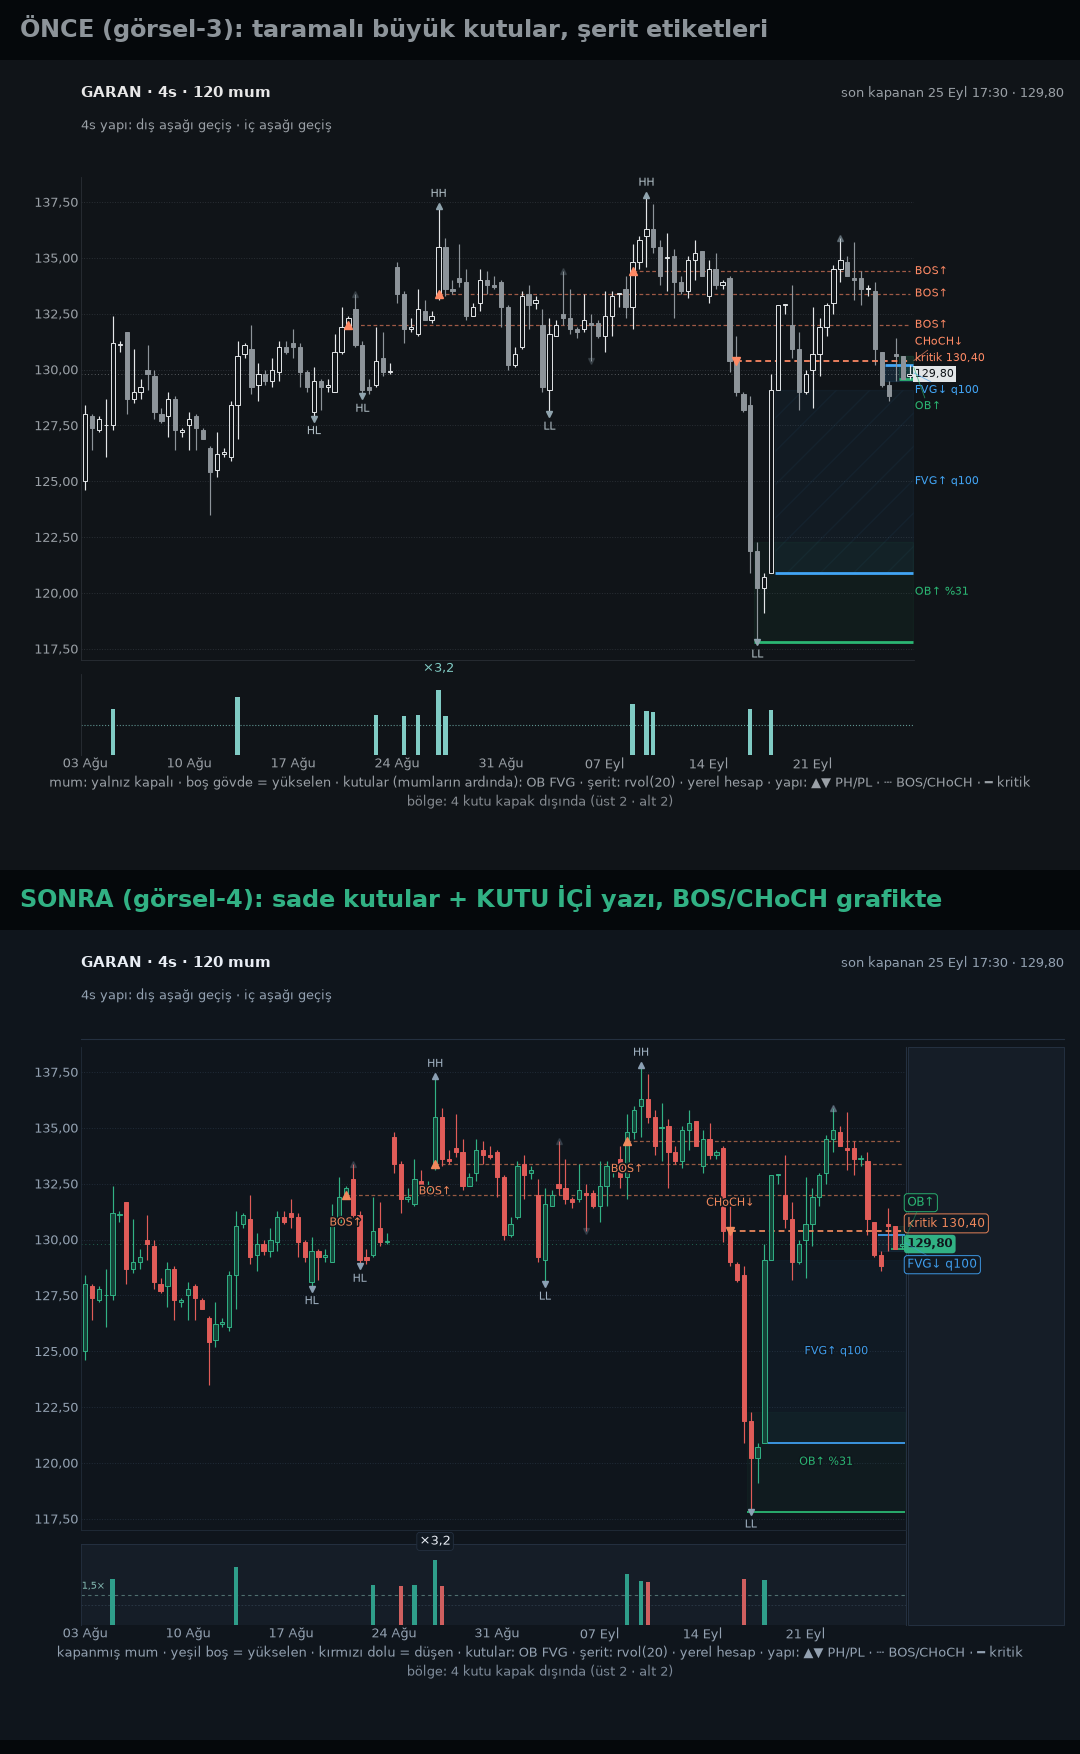
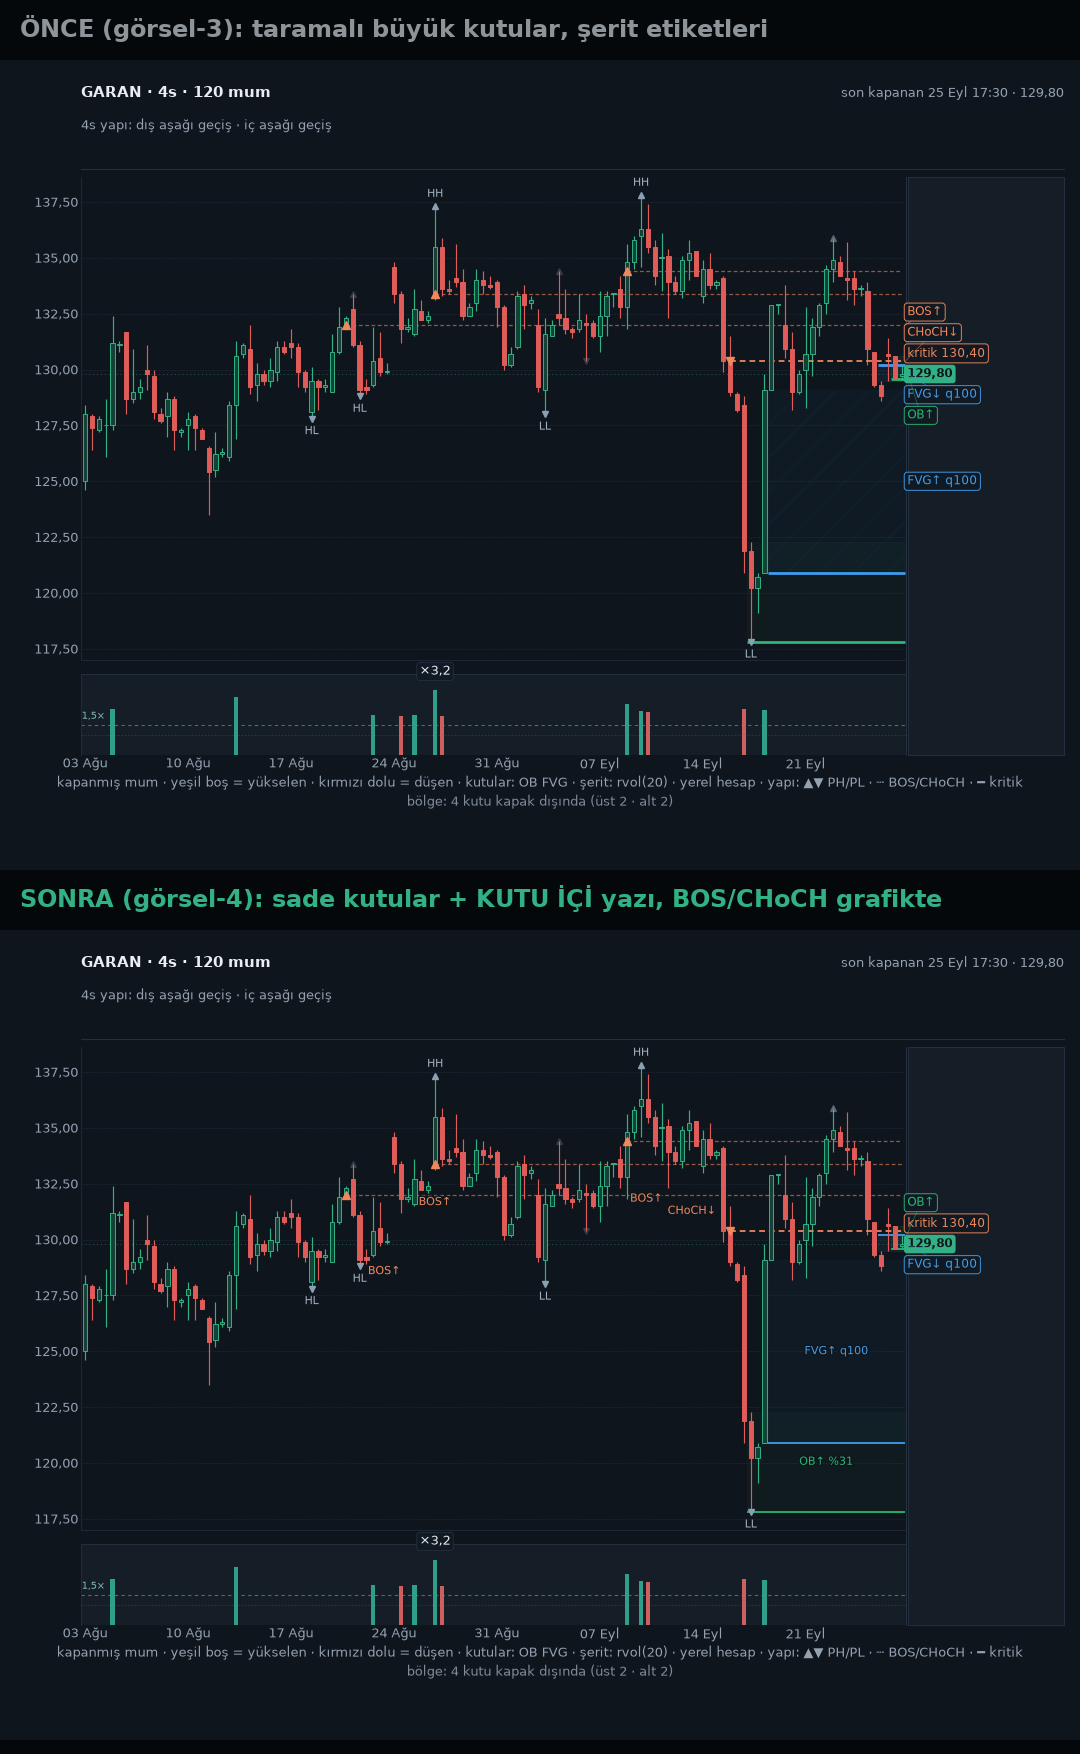
GÖRSEL-4 ek: katman yazıları için 2B çakışma ölçümü (19 kare taraması)
Ölçüm: ilk hâlde `katman_cakisan`da 4 BOS/CHoCH etiketi + birkaç kutu etiketi mum
gövdesiyle çakışıyordu (kullanıcı isteği: "anlaşılır/okunabilir grafik").

- `_olay_yazi_koy`: olay etiketi aday konumları (kırılımın ters tarafı önce, sonra
  yana kaydırma) GERÇEK `get_window_extent` ile ölçülür; çakışmasız ilk aday
  seçilir, hiçbiri boş değilse EN AZ çakışan korunur → yazı asla kaybolmaz.
- `_kutu_yazisi_koy`: kutu içi yazı 9 aday arasından (sol/orta/sağ × 3 dikey)
  kutunun DIŞINA çıkmadan en az çakışan noktaya oturur; hiçbiri sığmazsa etiket
  yine sağ şeride yedeklenir (sessiz kayıp yok).
- Mum piksel kutuları `_kare_ciz`de BİR KEZ hesaplanıp iki katmana da verilir.
- Ölçüm (20 kare: 10 hisse 4s + 1s/1g karışık): BOS/CHoCH çakışması **4 → 0**,
  `mum_cakisan` tüm karelerde 0 (şerit/başlık kapısı katı), kare süresi medyan
  343 ms / p95 555 ms (yerleşim ölçümü ~0,5 ms).
- Kanıt PNG'si `git archive da4c524` ağacıyla üretilen GÖRSEL-3 karesiyle
  yenilendi; §32 sözleşmesi güncellendi (2B yerleşim + açık kalanlar).

Test: test_grafik_gorsel4.py 13 test (yeni: olay etiketi ölçümü sıfır, kutu içi
yazı dağılımı korunur). Tam suite 1102 passed / 44 skipped.

diff --git a/grafik.py b/grafik.py
@@ -1176,10 +1176,17 @@ def _kare_ciz(goruntu: Mapping[str, Any], tf: str, olcu: Mapping[str, Any],
         cap = float(SABITLER["mum_genislik_orani"])
 
         sag_adaylar: list[dict[str, Any]] = []
+        # Mum kutuları (piksel) bir kez: kutu içi yazı ve olay etiketi yerleşimi
+        # aynı ölçümü kullanır (GÖRSEL-4).
+        try:
+            mum_kutulari = _mum_kutulari_px(ax, acilis, yuksek, dusuk, kapanis, cap)
+        except Exception:
+            mum_kutulari = None
         # --- bölge kutuları mumların ARDINDA (bilgi zemini; §0.4.1) ---
         if not yalnizca_mumlar and (zone.get("cizilen") or []):
             try:
-                zone_ozet = _zone_ciz(ax, zone, n, aralik, sag_adaylar) or {}
+                zone_ozet = _zone_ciz(ax, zone, n, aralik, sag_adaylar,
+                                      kutular=mum_kutulari) or {}
                 meta["zone"]["etiket_ic"] = int(zone_ozet.get("ic") or 0)
                 meta["zone"]["etiket_serit"] = int(zone_ozet.get("serit") or 0)
             except Exception as hata:
@@ -1191,7 +1198,8 @@ def _kare_ciz(goruntu: Mapping[str, Any], tf: str, olcu: Mapping[str, Any],
                      "capa": 0}
         if not yalnizca_mumlar and (goruntu.get("olay") or {}):
             try:
-                olay_ozet.update(_olay_ciz(ax, goruntu, n, sag_adaylar) or {})
+                olay_ozet.update(_olay_ciz(ax, goruntu, n, sag_adaylar,
+                                           kutular=mum_kutulari) or {})
             except Exception as hata:
                 log.warning("grafik: yapı katmanı çizilemedi (%s)", hata)
                 eksik.append("ms")
@@ -1447,8 +1455,72 @@ def _kutu_yazisi_sigar(ax, b: Mapping[str, Any], x0: int, x1: int, n: int,
     return kutu_yuk_px >= punto_px + 5.0
 
 
+def _kutu_yazisi_koy(ax, b: Mapping[str, Any], x0: int, x1: int, n: int,
+                     aralik: Sequence[float], metin: str, renk: str,
+                     kutular: Any = None) -> bool:
+    """Kutu içi yazıyı kutuya koyar; mumla çakışmayan noktayı ölçerek seçer.
+
+    Adaylar kutunun İÇİNDE kalır (yatay: sol/orta/sağ; dikey: orta ve kenara
+    yakın). Gerçek genişlik `get_window_extent` ile okunur; kutuya sığmayan aday
+    elenir. Hiçbiri çakışmasız değilse EN AZ çakışan seçilir, hiçbiri sığmıyorsa
+    `False` döner → etiket sağ şeride yedeklenir (sessiz kayıp yok).
+    """
+    from matplotlib import patheffects
+
+    def _yaz(xa: float, ya: float, ha: str) -> Any:
+        return ax.text(xa, ya, metin, ha=ha, va="center", gid="kutu-ici",
+                       fontsize=float(SABITLER["zone_yazi_pt"]),
+                       color=renk, zorder=5, clip_on=False,
+                       path_effects=[patheffects.withStroke(linewidth=2.0,
+                                                            foreground=PALET["zemin"])])
+
+    alt, ust = float(b["alt"]), float(b["ust"])
+    orta = (alt + ust) / 2.0
+    y_aday = [orta, alt + (ust - alt) * 0.32, ust - (ust - alt) * 0.32]
+    x_aday = [((x0 + x1) / 2.0, "center"), (x0 + 0.1, "left"), (x1 - 0.1, "right")]
+    try:
+        renderer = ax.figure.canvas.get_renderer()
+        kx0, ky0 = ax.transData.transform((float(x0) - 0.5, alt))
+        kx1, ky1 = ax.transData.transform((float(x1) + 0.5, ust))
+        kutu = (min(kx0, kx1), min(ky0, ky1), max(kx0, kx1), max(ky0, ky1))
+    except Exception:
+        renderer, kutu = None, None
+    en_iyi = None
+    for ya in y_aday:
+        for xa, ha in x_aday:
+            yazi = _yaz(xa, ya, ha)
+            if renderer is None:
+                return True                      # ölçüm yok: ilk aday (orta) yeter
+            try:
+                bb = yazi.get_window_extent(renderer)
+            except Exception:
+                return True
+            # kutuya sığmıyor mu? (kenarları aşan aday elenir)
+            if kutu is not None and (bb.x0 < kutu[0] - 1.0 or bb.x1 > kutu[2] + 1.0
+                                     or bb.y0 < kutu[1] - 1.0 or bb.y1 > kutu[3] + 1.0):
+                yazi.remove()
+                continue
+            alan = 0.0
+            if kutular is not None and len(kutular):
+                for cx0, cy0, cx1, cy1 in kutular:
+                    ow = max(0.0, min(bb.x1, cx1) - max(bb.x0, cx0))
+                    oh = max(0.0, min(bb.y1, cy1) - max(bb.y0, cy0))
+                    alan += ow * oh
+            if alan <= 0.0:
+                return True
+            if en_iyi is None or alan < en_iyi[0]:
+                en_iyi = (alan, xa, ya, ha)
+            yazi.remove()
+    if en_iyi is None:
+        return False                             # hiçbir aday kutuya sığmadı
+    _, xa, ya, ha = en_iyi
+    _yaz(xa, ya, ha)
+    return True
+
+
 def _zone_ciz(ax, zone: Mapping[str, Any], n: int, aralik: Sequence[float],
-              sag: Optional[list] = None) -> dict[str, int]:
+              sag: Optional[list] = None,
+              kutular: Any = None) -> dict[str, int]:
     """OB/FVG/engulfing kutuları + KUTU İÇİ yazı (§GÖRSEL-4). Dönüş: sayaç sözlüğü.
 
     Çizim sadeleşti: eğik tarama (hatch) KALKTI — büyük FVG kutularında
@@ -1460,6 +1532,10 @@ def _zone_ciz(ax, zone: Mapping[str, Any], n: int, aralik: Sequence[float],
 
     Kalın kenar boğada ALT, ayıda ÜST kenarda (§0.12r): boğa/ayı ayrımı renk
     değiştirmeden de okunur.
+
+    `kutular` verilirse (mum piksel kutuları) yazının YERİ kutu içinde ölçülerek
+    seçilir: mum gövdesiyle çakışmayan nokta tercih edilir, hepsi doluysa en az
+    çakışan (ölçüm: `katman_cakisan`). Verilmezse kutu ortası kullanılır.
     """
     from matplotlib.patches import Rectangle
 
@@ -1494,14 +1570,8 @@ def _zone_ciz(ax, zone: Mapping[str, Any], n: int, aralik: Sequence[float],
                 solid_capstyle="butt", zorder=2)
         # --- kutu İÇİ etiket (GÖRSEL-4): "hangi kutu, ne kadar dolu" kutuda yazılı ---
         metin = _zone_metni(b)
-        if _kutu_yazisi_sigar(ax, b, x0, x1, n, aralik, metin):
-            from matplotlib import patheffects
-            ax.text((x0 + x1) / 2.0, (alt + ust) / 2.0, metin,
-                    ha="center", va="center", gid="kutu-ici",
-                    fontsize=float(SABITLER["zone_yazi_pt"]), color=renk[b["tip"]],
-                    zorder=5, clip_on=False,
-                    path_effects=[patheffects.withStroke(linewidth=2.0,
-                                                         foreground=PALET["zemin"])])
+        if _kutu_yazisi_sigar(ax, b, x0, x1, n, aralik, metin) and _kutu_yazisi_koy(
+                ax, b, x0, x1, n, aralik, metin, renk[b["tip"]], kutular):
             ic += 1
         else:
             seride.append(b)
@@ -1879,8 +1949,125 @@ def _swing_ofseti(ax, x: float, yukari: bool, yerlesik: list, n: int,
     return ofs if yukari else -ofs
 
 
+def _mum_kutulari_px(ax, acilis, yuksek, dusuk, kapanis, cap: float):
+    """Mum gövde+fitil kutuları PİKSEL olarak (Nx4: x0,y0,x1,y1); numpy gerekir."""
+    import numpy as np
+
+    govde, fitil = [], []
+    for i, (a, k, y, d) in enumerate(zip(acilis, kapanis, yuksek, dusuk)):
+        if None in (a, k, y, d):
+            continue
+        govde.append((i - cap / 2.0, min(a, k), i + cap / 2.0, max(a, k)))
+        fitil.append((i - 0.25, d, i + 0.25, y))
+    def _kutu(liste):
+        if not liste:
+            return np.zeros((0, 4))
+        arr = np.array(liste, dtype=float)
+        p0 = ax.transData.transform(arr[:, 0:2])
+        p1 = ax.transData.transform(arr[:, 2:4])
+        return np.hstack([np.minimum(p0, p1), np.maximum(p0, p1)])
+    return np.vstack([_kutu(govde), _kutu(fitil)]) if (govde or fitil) else np.zeros((0, 4))
+
+
+def _olay_yazi_koy(ax, x: float, seviye: float, yon_ust: bool, metin: str,
+                   kutular, yerlesik: list, n: int) -> bool:
+    """Olay etiketini çakışmasız en iyi adaya koyar (GÖRSEL-4 ölçüm düzeltmesi).
+
+    Neden: etiket olayın mumuna iliştiğinde (GÖRSEL-4) bazı kırılımlarda mumun
+    üstüne biniyordu — ölçüm `katman_cakisan`da 4 yazı gösterdi. Aday ölçüsü
+    piksel, ama GERÇEK genişlik `get_window_extent` ile okunur (tahmin 1–2 px
+    sapabiliyor): adaylar denendikçe yazı ölçülür, çakışmasız ilk adayda kalınır,
+    hiçbiri boş değilse EN AZ çakışan aday korunur (yazı asla kaybolmaz).
+    """
+    try:
+        import numpy as np
+        dpi = float(ax.figure.dpi)
+        bar_px = max(2.0, float(ax.get_window_extent().width) / max(1.0, float(n)))
+        px, py = ax.transData.transform((float(x), float(seviye)))
+    except Exception:
+        dpi, bar_px, px, py = 100.0, 6.0, 0.0, 0.0
+        np = None
+
+    punto_px = float(SABITLER["olay_yazi_pt"]) * dpi / 72.0
+    g = max(6.0, _genislik_16(metin) * punto_px / 16.0) + 3.0   # güvenlik payı
+    yuk = punto_px + 3.0
+    adim = punto_px * 1.7
+    # Kırılım yönünün TERSİ önce: yukarı kırılımda fiyat seviyenin üstünde kalır.
+    ilk = -1.0 if yon_ust else 1.0
+    # Aday sırası: önce kırılımın TERS tarafı (kademeli uzaklaşarak), sonra karşı
+    # taraf. Yoğun mum bölgesinde tek yön yetmeyebiliyor (ölçüm: CHoCH↓).
+    dyler = ([ilk * (yuk + i * adim) for i in range(4)]
+             + [-ilk * (yuk + i * adim) for i in range(3)])
+    dxler = [0.0] + [float(k) * bar_px * 1.4 * yon
+                     for k in (1, 2, 3, 4) for yon in (1, -1)]
+
+    engel_kutu = np if (np is not None and kutular is not None and len(kutular)) else None
+    from matplotlib import patheffects
+    try:
+        renderer = ax.figure.canvas.get_renderer()
+    except Exception:
+        renderer = None
+
+    def _olc(kutu) -> float:
+        """Kutunun mum kutuları + yerleşik yazılarla çakışma alanı (px²)."""
+        x0, y0, x1, y1 = kutu
+        alan = 0.0
+        if engel_kutu is not None:
+            for kx0, ky0, kx1, ky1 in kutular:
+                ow = max(0.0, min(x1, kx1) - max(x0, kx0))
+                oh = max(0.0, min(y1, ky1) - max(y0, ky0))
+                alan += ow * oh
+        for (ox0, oy0, ox1, oy1) in yerlesik:          # diğer olay etiketleri
+            ow = max(0.0, min(x1, ox1) - max(x0, ox0))
+            oh = max(0.0, min(y1, oy1) - max(y0, oy0))
+            alan += 0.35 * ow * oh                      # yazı–yazı çakışması daha ucuz
+        return alan
+
+    def _yaz(dx: float, dy: float, va: str):
+        return ax.annotate(metin, xy=(x, seviye),
+                           xytext=(dx * 72.0 / dpi, dy * 72.0 / dpi),
+                           textcoords="offset points", ha="center", va=va,
+                           fontsize=float(SABITLER["olay_yazi_pt"]), color=PALET["olay"],
+                           zorder=7, annotation_clip=False, gid="olay-ici",
+                           path_effects=[patheffects.withStroke(
+                               linewidth=2.2, foreground=PALET["zemin"])])
+
+    def _tahmin(dx: float, dy: float, va: str) -> tuple[float, float, float, float]:
+        x0, x1 = px + dx - g / 2.0, px + dx + g / 2.0
+        y0, y1 = ((py + dy - yuk, py + dy) if va == "top"
+                  else (py + dy, py + dy + yuk))
+        return x0, y0, x1, y1
+
+    en_iyi = None
+    for dy in dyler:
+        for dx in dxler:
+            va = "top" if dy < 0 else "bottom"
+            yazi = _yaz(dx, dy, va)
+            if renderer is None:
+                yerlesik.append(_tahmin(dx, dy, va))
+                return True
+            try:
+                bb = yazi.get_window_extent(renderer)
+                kutu = (bb.x0 - 1.0, bb.y0 - 1.0, bb.x1 + 1.0, bb.y1 + 1.0)
+            except Exception:
+                kutu = _tahmin(dx, dy, va)
+            alan = _olc(kutu)
+            if alan <= 0.0:
+                yerlesik.append(kutu)
+                return True
+            if en_iyi is None or alan < en_iyi[0]:
+                en_iyi = (alan, dx, dy, va, kutu)
+            yazi.remove()
+    if en_iyi is None:                    # aday üretilemedi (savunma)
+        return False
+    _, dx, dy, va, kutu = en_iyi
+    _yaz(dx, dy, va)
+    yerlesik.append(kutu)
+    return True
+
+
 def _olay_ciz(ax, goruntu: Mapping[str, Any], n: int,
-              sag: Optional[list] = None) -> dict[str, int]:
+              sag: Optional[list] = None, kutular: Any = None) -> dict[str, int]:
     """Yapı katmanı (§2.2): swing işaretleri + BOS/CHoCH okları + `kritik` çizgisi.
 
     Renkler §0.4.1: `swing` #90a4ae (α: teyitli 1,0 · kırık 0,2 · aday 0,45),
@@ -1896,12 +2083,24 @@ def _olay_ciz(ax, goruntu: Mapping[str, Any], n: int,
     alarm = goruntu.get("alarm") or {}
     sayac = {"swing": 0, "etiket": 0, "kritik_atlandi": 0}
     yerlesik_swing: list[tuple[float, bool, float]] = []
-    yerlesik_olay: list[tuple[float, bool, float]] = []
+    yerlesik_olay: list[tuple[float, float, float, float]] = []   # piksel kutular
     kritik_eslesdi = False
     if not swinglar and not olaylar and not (olay.get("kritik") or {}):
         return sayac
     zamanlar = list(goruntu.get("zamanlar") or [])
     dusuk = [float(v) for v in (list(goruntu.get("dusuk") or [])[:n])]
+    # Olay etiketi yerleşimi için mum kutuları (gövde+fitil, piksel). Çağıran
+    # (`_kare_ciz`) zaten hesapladıysa tekrar hesaplanmaz.
+    mum_kutulari = kutular
+    if olaylar and mum_kutulari is None:
+        try:
+            mum_kutulari = _mum_kutulari_px(
+                ax, [float(v) for v in (list(goruntu.get("acilis") or [])[:n])],
+                [float(v) for v in (list(goruntu.get("yuksek") or [])[:n])], dusuk,
+                [float(v) for v in (list(goruntu.get("kapanis") or [])[:n])],
+                float(SABITLER["mum_genislik_orani"]))
+        except Exception:
+            mum_kutulari = None
     for b in swinglar:
         x, y = float(b["bar"]), _gercek(b.get("fiyat"))
         if y is None:
@@ -1956,27 +2155,13 @@ def _olay_ciz(ax, goruntu: Mapping[str, Any], n: int,
                 linewidth=1.4 if vurgu else 0.9, linestyle=(0, (3, 2)),
                 alpha=0.9 if vurgu else 0.6, zorder=3 if vurgu else 2)
         # GÖRSEL-4 kullanıcı kararı: BOS/CHoCH için FİYAT değil MUM KONUMU önemli
-        # → etiket sağ fiyat şeridine değil, olayın mumuna ilişir. Yerleşim:
-        # yukarı kırılımda seviyenin ALTINA (fiyat üstte kaldığı için mumlar orada),
-        # aşağı kırılımda ÜSTÜNE yazılır; koyu kontur sayesinde mum üstünde okunur.
-        yazi_ofs = 11.0
-        # `_swing_ofseti` işareti yönü taşır: yukarı kırılımda etiket AŞAĞI
-        # (fiyat üstte kaldı), aşağı kırılımda YUKARI yazılır; basamaklama aynı
-        # yönde daha da uzaklaştırır.
-        ofs = _swing_ofseti(ax, x, not yon_ust, yerlesik_olay, n,
-                            _genislik_16(etiket) * (float(SABITLER["olay_yazi_pt"])
-                                                    * float(SABITLER["dpi"]) / 72.0) / 16.0)
-        toplam = (ofs - yazi_ofs) if yon_ust else (ofs + yazi_ofs)
-        from matplotlib import patheffects
-        ax.annotate(etiket, xy=(x, seviye),
-                    xytext=(0, toplam),
-                    textcoords="offset points", ha="center",
-                    va="top" if yon_ust else "bottom",
-                    fontsize=float(SABITLER["olay_yazi_pt"]), color=PALET["olay"],
-                    zorder=7, annotation_clip=False, gid="olay-ici",
-                    path_effects=[patheffects.withStroke(linewidth=2.2,
-                                                         foreground=PALET["zemin"])])
-        etiket_ic += 1
+        # → etiket sağ fiyat şeridine değil, olayın mumuna ilişir. Yerleşim
+        # 2 boyutlu aranır (`_olay_yazi_yeri`): önce kırılımın ters tarafı, olmazsa
+        # yana kaydırma — mum kutusuyla çakışmayan ilk aday; hepsi doluysa en az
+        # çakışan (yazı asla kaybolmaz). Koyu kontur okunabilirliği tamamlar.
+        if _olay_yazi_koy(ax, x, seviye, yon_ust, etiket,
+                          mum_kutulari, yerlesik_olay, n):
+            etiket_ic += 1
     # `kritik` = son seçilen olayın seviyesi, yani ZATEN o olayın çizgisidir.
     # Ayrı çizgi çizmek aynı yere iki çizgi koymak olurdu → eşleşen olayın çizgisi
     # kalınlaştırılıp etiketi `... · kritik 67,20` yapılır; ayrı çizgi yalnız

diff --git a/test_grafik_gorsel4.py b/test_grafik_gorsel4.py
@@ -276,3 +276,33 @@ def test_gecersizlesme_bolumleri_yalniz_alarm_tf():
     assert "4s yapı" in yalniz
     for yabanci in ("1s yapı", "2s yapı", "1g yapı"):
         assert yabanci not in yalniz, yalniz
+
+
+# ------------------------------------------- 2B yerleşim: katman yazıları muma binmez
+# Ölçüm (20 kare, önce): `katman_cakisan`da 4 olay etiketi + birkaç kutu etiketi
+# mum gövdesiyle çakışıyordu. Yerleşim artık gerçek `get_window_extent` ile
+# ölçülüp çakışmasız aday aranıyor.
+
+
+def test_olay_etiketi_mum_cakismasi_olcumu_sifir():
+    """BOS/CHoCH etiketleri mum kutusuyla çakışmaz (bilinçli ölçüm kanalı)."""
+    import grafik_uret
+
+    sonuc = grafik_uret.kare_uret("GARAN", "4h", veri_dizin="bot_data", zone=True,
+                                  mum=140, cikti="/tmp/kare/_gorsel4_olay.png")
+    kalite = sonuc["meta"]["kalite"]
+    assert kalite["mum_cakisan"] == 0            # şerit/başlık kapısı katı kalır
+    olay_cakisan = [y for y in kalite["katman_cakisan"] if y.startswith(("BOS", "CHoCH"))]
+    assert olay_cakisan == [], kalite["katman_cakisan"]
+
+
+def test_kutu_yazisi_mum_cakismasini_azaltir():
+    """Kutu içi yazı yerleşimi ölçümle seçilir: aynı karede yazı sayısı korunur."""
+    import grafik_uret
+
+    sonuc = grafik_uret.kare_uret("TUPRS", "4h", veri_dizin="bot_data", zone=True,
+                                  mum=150, cikti="/tmp/kare/_gorsel4_kutu.png")
+    zone = sonuc["meta"]["zone"]
+    assert zone["etiket_ic"] + zone["etiket_serit"] == zone["cizilen"]
+    # Ölçüm alanı her zaman döner (bilinçli katman yazıları ayrı sayılır).
+    assert "katman_cakisan" in sonuc["meta"]["kalite"]
